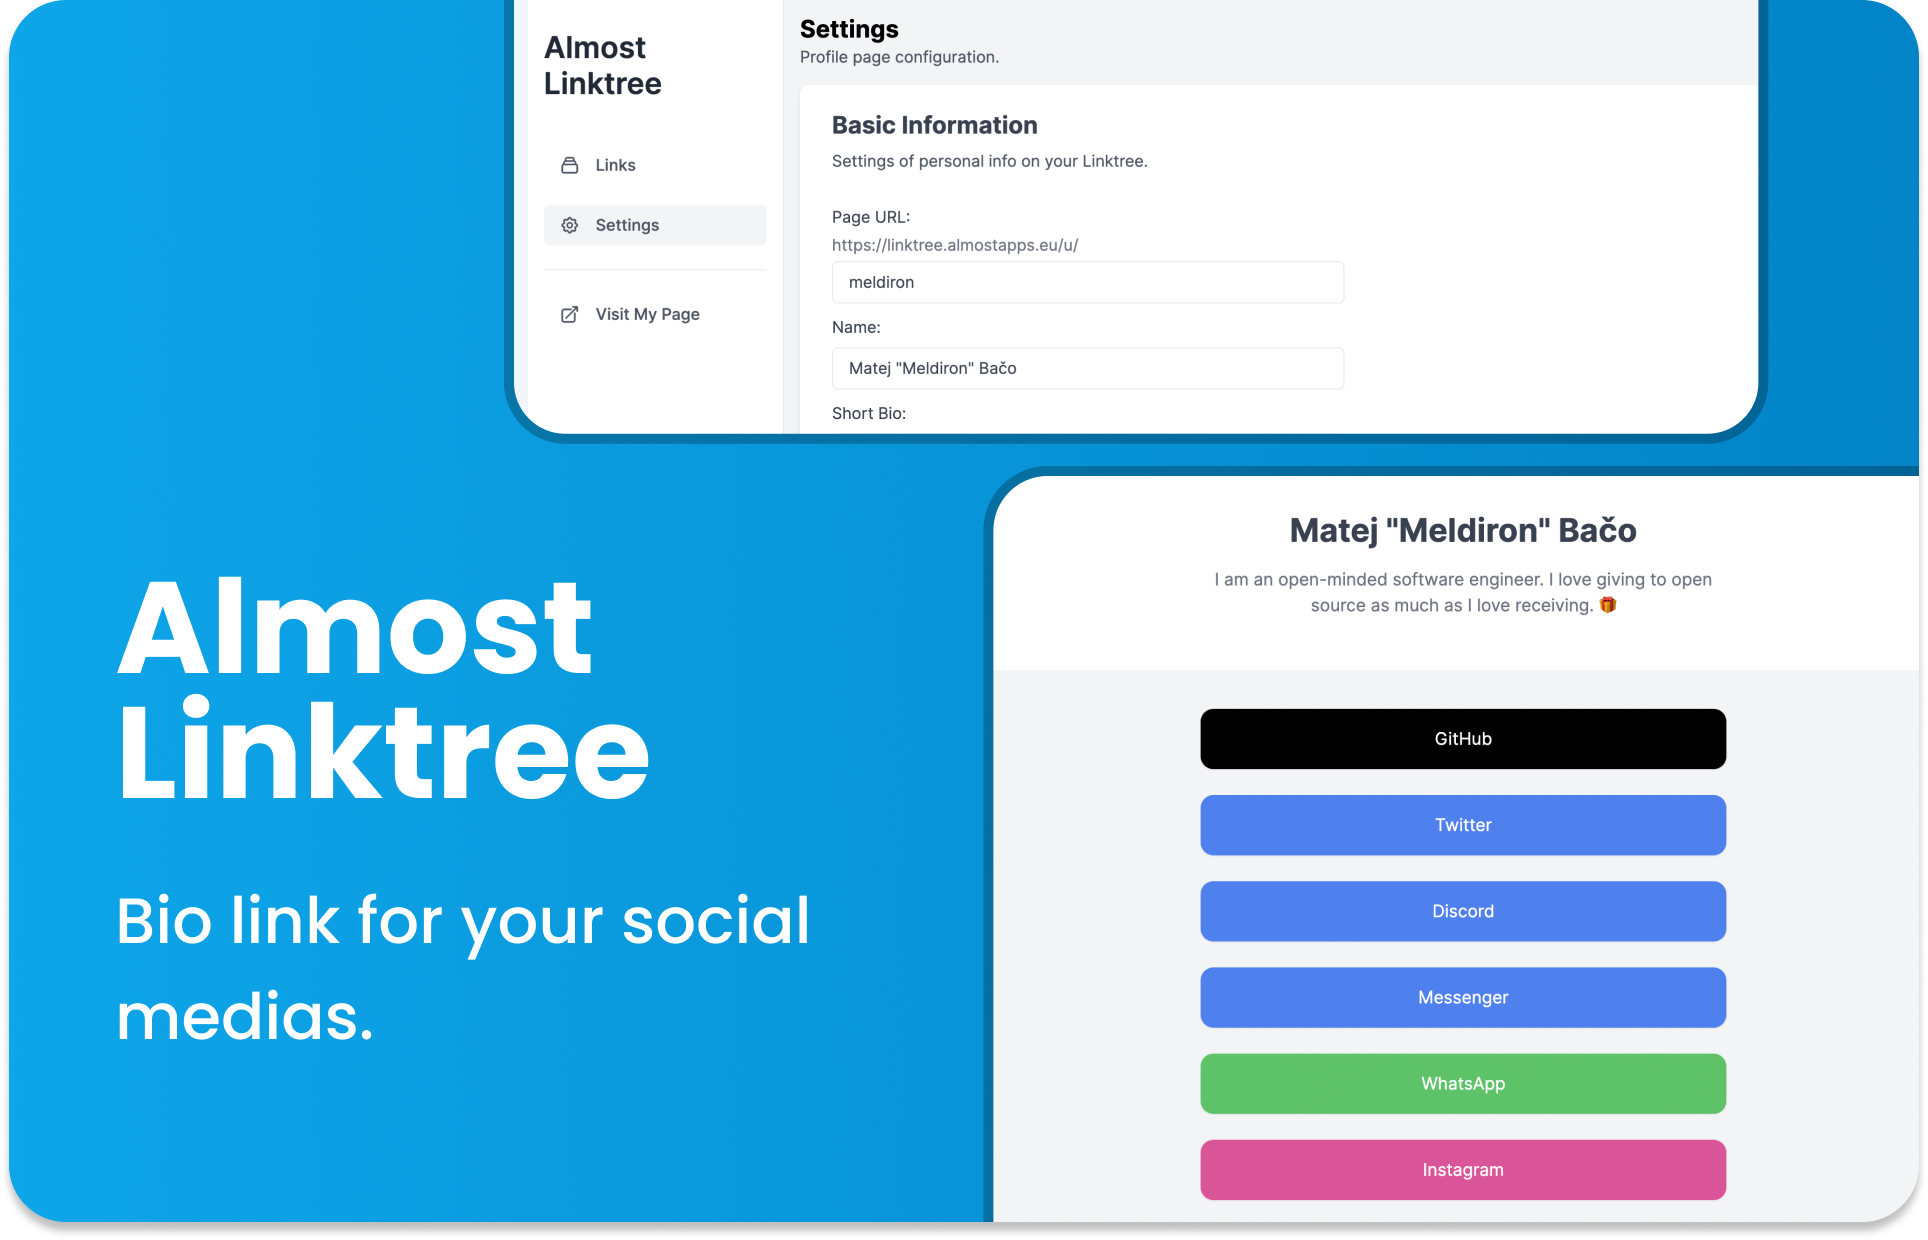
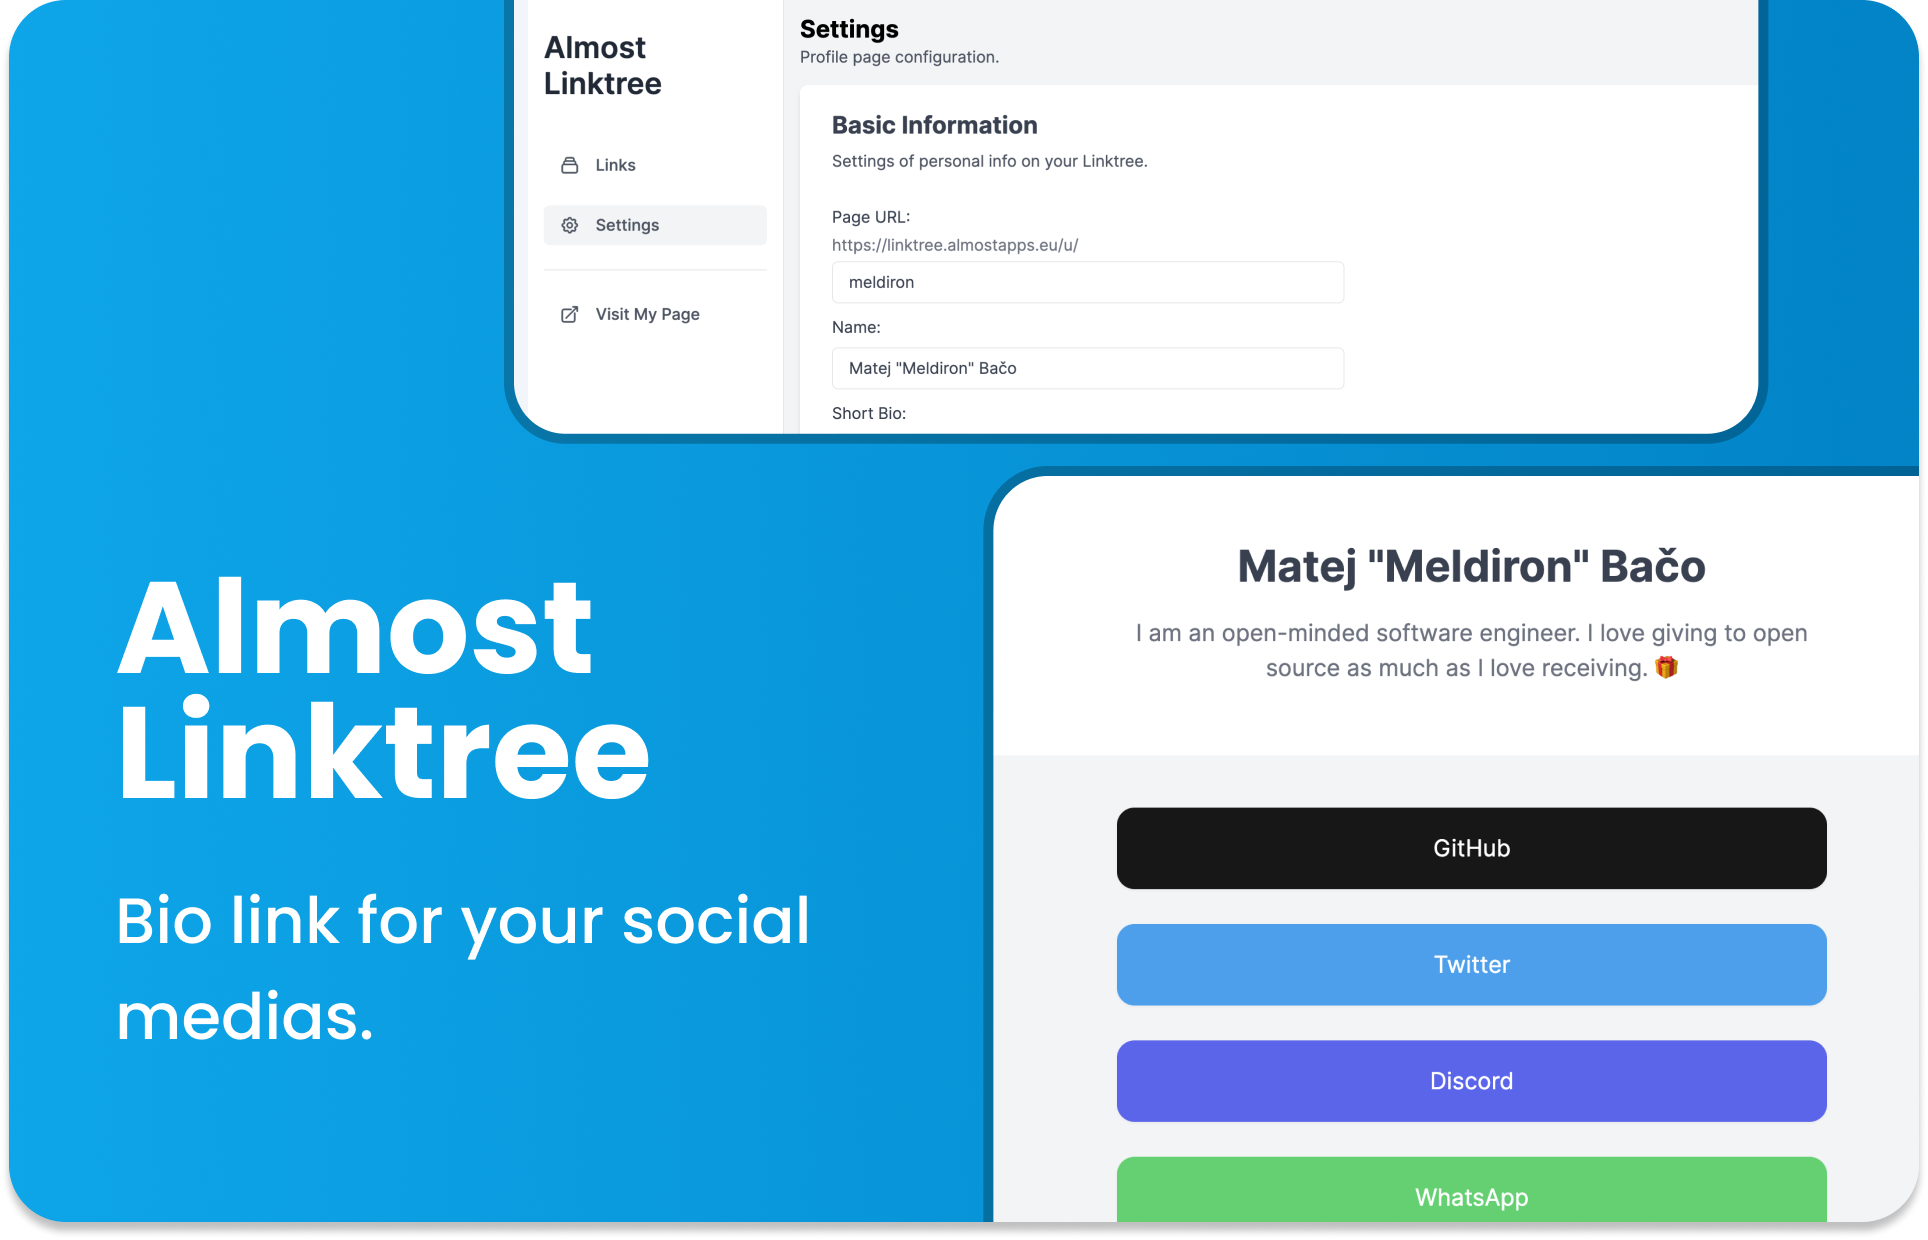
Improve cover, allow custom colors

Changed region(s): [[0.5602, 0.3984, 0.9647, 1.0]]

diff --git a/src/routes/u/[slug]/+page.svelte b/src/routes/u/[slug]/+page.svelte
@@ -1,6 +1,22 @@
 <script lang="ts">
 	import type { PageData } from './$types';
 	export let data: PageData;
+
+	function getClasses(type: string) {
+		return type === 'green'
+			? 'bg-green-500 text-white'
+			: type === 'red'
+			? 'bg-red-500 text-white'
+			: type === 'pink'
+			? 'bg-pink-500 text-white'
+			: type === 'blue'
+			? 'bg-blue-500 text-white'
+			: type === 'black'
+			? 'bg-black text-white'
+			: type === 'white'
+			? 'bg-white text-black'
+			: '';
+	}
 </script>
 
 <div class="bg-white p-3 py-12 rounded-b-xl">
@@ -16,24 +32,17 @@
 	{#each data.links.documents as link}
 		<a href={link.url} rel="noreferrer">
 			<button
-				class={`${
-					link.type === 'green'
-						? 'bg-green-500 text-white'
-						: link.type === 'red'
-						? 'bg-red-500 text-white'
-						: link.type === 'pink'
-						? 'bg-pink-500 text-white'
-						: link.type === 'blue'
-						? 'bg-blue-500 text-white'
-						: link.type === 'black'
-						? 'bg-black text-white'
-						: 'bg-white text-black'
-				} w-full p-4 rounded-xl shadow-sm`}>{link.text}</button
+				style={`${getClasses(link.type) === '' ? link.type : ''}`}
+				class={`${getClasses(link.type)} w-full p-4 rounded-xl shadow-sm`}>{link.text}</button
 			>
 		</a>
 	{/each}
 
-	<div class={`${data.links.documents.length <= 0 ? '' : 'border-t-2'} max-w-sm mx-auto mt-6 border-gray-200 pt-4`}>
+	<div
+		class={`${
+			data.links.documents.length <= 0 ? '' : 'border-t-2'
+		} max-w-sm mx-auto mt-6 border-gray-200 pt-4`}
+	>
 		<p class="text-gray-400 text-sm text-center">
 			Create your own page <a class="text-black" href="/">Here</a>. It's 100% free.
 		</p>
